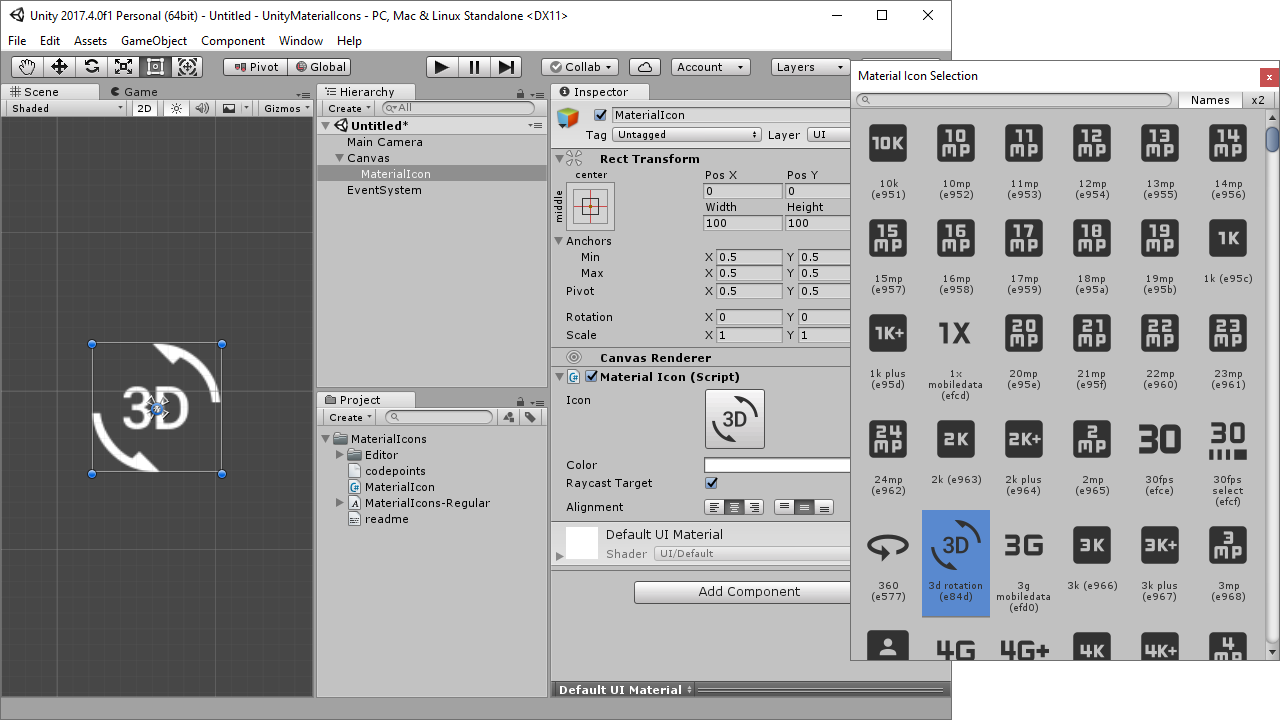
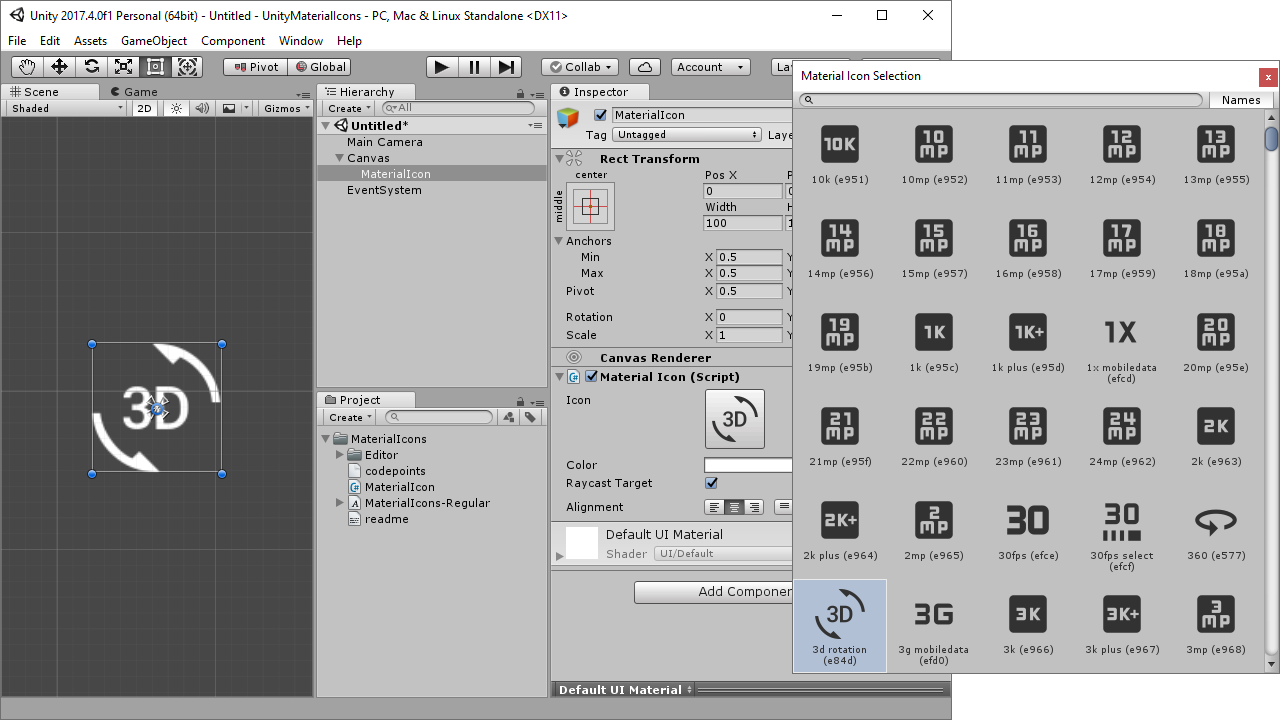
Greatly improved the selection window.

Changed region(s): [[0.5938, 0.0611, 1.0, 0.9472]]

diff --git a/src/UnityMaterialIcons/Assets/MaterialIcons/Editor/MaterialIconSelectionWindow.cs b/src/UnityMaterialIcons/Assets/MaterialIcons/Editor/MaterialIconSelectionWindow.cs
@@ -13,21 +13,23 @@ public class MaterialIconSelectionWindow : EditorWindow
 {
 	private static readonly Color darkColor = new Color(0.196f, 0.196f, 0.196f);
 	private static readonly Color lightColor = new Color(0.804f, 0.804f, 0.804f);
-	
+
 	private int iconSize = 60;
-	private int iconZoom = 1;
+	private int labelHeight = 24;
+	private int spacing = 10;
 	private bool showNames = true;
 	private Vector2 scrollPos = Vector2.zero;
 	private string filterText = string.Empty;
 	private bool filterGotFocus = false;
 
 	private string selected;
-	private int selectedIndex;
+	private string selectedName;
 	private bool selectionKeep;
-	private System.Action<string> OnSelectionChanged;
+	private System.Action<string> onSelectionChanged;
 
 	private Font MaterialIconsRegular;
-	private CodepointData[] CodepointsCollection;
+	private CodepointData[] codepointsCollection;
+	private CodepointData[] filteredCollection;
 
 	private GUIStyle toolbarSeachTextFieldStyle;
 	private GUIStyle toolbarSeachCancelButtonStyle;
@@ -39,17 +41,16 @@ public class MaterialIconSelectionWindow : EditorWindow
 
 	public void LoadDependencies(Font MaterialIconsRegular)
 	{
-		showNames = EditorPrefs.GetBool("MaterialIconSelectionWindow.showNames", true);
-		iconZoom = EditorPrefs.GetInt("MaterialIconSelectionWindow.iconZoom", 1);
+		showNames = EditorPrefs.GetBool(typeof(MaterialIconSelectionWindow) + ".showNames", true);
 
 		if(MaterialIconsRegular == null)
 			return;
-		
+
 		this.MaterialIconsRegular = MaterialIconsRegular;
 
 		string fontPath = AssetDatabase.GetAssetPath(MaterialIconsRegular);
 		string codepointsPath = Path.GetDirectoryName(fontPath) + "/codepoints";
-	
+
 		List<CodepointData> tempList = new List<CodepointData>();
 
 		foreach(string codepoint in File.ReadAllLines(codepointsPath))
@@ -58,22 +59,26 @@ public class MaterialIconSelectionWindow : EditorWindow
 			tempList.Add(new CodepointData(data[0], data[1]));
 		}
 
-		CodepointsCollection = tempList.ToArray();
-		selectedIndex = System.Array.FindIndex(CodepointsCollection, (data) => data.codeGUIContent.text == selected);
+		codepointsCollection = tempList.ToArray();
+		filteredCollection = codepointsCollection;
+
+		var temp = filteredCollection.FirstOrDefault(data => data.codeGUIContent.text == selected);
+		if(temp != null)
+			selectedName = temp.name;
 	}
 
 	public static void Init(Font MaterialIconsRegular, string preSelect, System.Action<string> callback)
 	{
 		MaterialIconSelectionWindow window = EditorWindow.GetWindow<MaterialIconSelectionWindow>(true);
 		window.selected = preSelect;
-		window.OnSelectionChanged = callback;
+		window.onSelectionChanged = callback;
 		window.LoadDependencies(MaterialIconsRegular);
 	}
 
 	private void OnEnable()
 	{
 		base.titleContent = new GUIContent("Material Icon Selection");
-		base.minSize = new Vector2(430f, 570f);
+		base.minSize = new Vector2((iconSize + labelHeight + spacing) * 5f + GUI.skin.verticalScrollbar.fixedWidth + 1f, (iconSize + labelHeight + spacing) * 6f + EditorStyles.toolbar.fixedHeight);
 		selectionKeep = true;
 	}
 
@@ -85,13 +90,12 @@ public class MaterialIconSelectionWindow : EditorWindow
 			toolbarSeachCancelButtonStyle = new GUIStyle("ToolbarSeachCancelButton");
 			toolbarSeachCancelButtonEmptyStyle = new GUIStyle("ToolbarSeachCancelButtonEmpty");
 			toolbarLabelStyle = new GUIStyle(EditorStyles.label) { alignment = TextAnchor.MiddleCenter };
-			iconImageStyle = new GUIStyle() { font = MaterialIconsRegular, alignment = TextAnchor.MiddleCenter };
+			iconSelectionStyle = new GUIStyle("selectionrect");
+			iconImageStyle = new GUIStyle() { font = MaterialIconsRegular, fontSize = iconSize - spacing, alignment = TextAnchor.MiddleCenter };
 			iconLabelStyle = new GUIStyle(EditorStyles.miniLabel) { alignment = TextAnchor.UpperCenter, wordWrap = true };
-			iconSelectionStyle = new GUIStyle("RL Element");
+			iconImageStyle.padding = iconLabelStyle.padding = new RectOffset();
 			iconImageStyle.normal.textColor = iconLabelStyle.normal.textColor = EditorGUIUtility.isProSkin ? lightColor : darkColor;
 		}
-
-		OnHeaderGUI();
 
 		if(MaterialIconsRegular == null)
 		{
@@ -99,26 +103,34 @@ public class MaterialIconSelectionWindow : EditorWindow
 			return;
 		}
 
-		if((CodepointsCollection == null) || (CodepointsCollection.Length == 0))
+		if((codepointsCollection == null) || (codepointsCollection.Length == 0))
 		{
 			EditorGUILayout.HelpBox("Could not find \"codepoints\" font data.", MessageType.Error);
 			return;
 		}
 
+		OnHeaderGUI();
 		OnBodyGUI();
 	}
 
 	private void OnHeaderGUI()
 	{
-		EditorGUILayout.BeginHorizontal(EditorStyles.toolbar, GUILayout.ExpandWidth(true));
+		Rect groupRect = new Rect(0f, 0f, base.position.width, EditorStyles.toolbar.fixedHeight);
+		GUI.BeginGroup(groupRect);
 
-		GUI.SetNextControlName("MaterialIconSelectionWindow.filterText");
-		filterText = EditorGUILayout.TextField(filterText, toolbarSeachTextFieldStyle);
+		if(Event.current.type == EventType.Repaint)
+		{
+			EditorStyles.toolbar.Draw(groupRect, false, false, false, false);
+		}
 
-		Rect clearRect = GUILayoutUtility.GetRect(20f, 14f, GUILayout.ExpandWidth(false), GUILayout.ExpandHeight(false));
-		clearRect.y += 1.5f;
+		Rect filterRect = new Rect(6f, 2f, groupRect.width - 6f - 20f - 64f - 6f, groupRect.height - 2f);
+		Rect clearRect = new Rect(filterRect.x + filterRect.width, filterRect.y, 20f, filterRect.height);
 
-		GUI.Label(clearRect, GUIContent.none, toolbarSeachCancelButtonEmptyStyle);
+		EditorGUI.BeginChangeCheck();
+
+		GUI.SetNextControlName(typeof(MaterialIconSelectionWindow) + ".filterText");
+		filterText = EditorGUI.TextField(filterRect, filterText, toolbarSeachTextFieldStyle);
+
 		if(GUI.Button(clearRect, GUIContent.none, string.IsNullOrEmpty(filterText) ? toolbarSeachCancelButtonEmptyStyle : toolbarSeachCancelButtonStyle))
 		{
 			filterText = string.Empty;
@@ -127,108 +139,169 @@ public class MaterialIconSelectionWindow : EditorWindow
 
 		if(!filterGotFocus)
 		{
-			EditorGUI.FocusTextInControl("MaterialIconSelectionWindow.filterText");
+			EditorGUI.FocusTextInControl(typeof(MaterialIconSelectionWindow) + ".filterText");
 			filterGotFocus = true;
 		}
 
-		Rect nameRect = GUILayoutUtility.GetRect(64f, 14f, GUILayout.ExpandWidth(false), GUILayout.ExpandHeight(false));
+		if(EditorGUI.EndChangeCheck())
+		{
+			filteredCollection = codepointsCollection.Where(data => string.IsNullOrEmpty(filterText) || data.nameGUIContent.text.IndexOf(filterText, System.StringComparison.OrdinalIgnoreCase) >= 0).ToArray();
+			selectionKeep = true;
+		}
+
+		Rect nameRect = new Rect(clearRect.x + clearRect.width, groupRect.y, 64f, groupRect.height);
 		EditorGUI.BeginChangeCheck();
 		showNames = EditorGUI.Toggle(nameRect, showNames, EditorStyles.toolbarButton);
 		if(EditorGUI.EndChangeCheck())
 		{
-			EditorPrefs.SetBool("MaterialIconSelectionWindow.showNames", showNames);
+			GUI.FocusControl(null);
+			EditorPrefs.SetBool(typeof(MaterialIconSelectionWindow) + ".showNames", showNames);
 		}
-		nameRect.y += 1.5f;
 		EditorGUI.LabelField(nameRect, "Names", toolbarLabelStyle);
 
-		Rect zoomRect = GUILayoutUtility.GetRect(32f, 14f, GUILayout.ExpandWidth(false), GUILayout.ExpandHeight(false));
-		EditorGUI.BeginChangeCheck();
-		EditorGUI.Toggle(zoomRect, iconZoom == 2, EditorStyles.toolbarButton);
-		if(EditorGUI.EndChangeCheck())
-		{
-			iconZoom = (iconZoom == 1) ? 2 : 1;
-			EditorPrefs.SetInt("MaterialIconSelectionWindow.iconZoom", iconZoom);
-		}
-		zoomRect.y += 1.5f;
-		EditorGUI.LabelField(zoomRect, "x2", toolbarLabelStyle);
-
-		iconImageStyle.fontSize = Mathf.FloorToInt((iconSize - 10) * iconZoom);
-
-		EditorGUILayout.EndHorizontal();
+		GUI.EndGroup();
 	}
 
 	private void OnBodyGUI()
 	{
-		scrollPos = EditorGUILayout.BeginScrollView(scrollPos);
-
-		EditorGUILayout.BeginHorizontal(GUILayout.ExpandWidth(false));
-		GUILayout.Space(showNames ? 4f : 0f);
-
-		int k = 0;
-		int c = Mathf.FloorToInt((base.position.width - 16f) / ((iconSize * iconZoom) + 8f));
-		for(int i = 0; i < CodepointsCollection.Length; i++)
+		Rect iconRect = new Rect(0f, 0f, iconSize + labelHeight, iconSize);
+		Rect labelRect = new Rect(0f, 0f, iconRect.width, labelHeight);
+		if(!showNames)
 		{
-			var data = CodepointsCollection[i];
+			iconRect.width -= labelHeight;
+			labelRect.height = 0f;
+		}
+		Rect buttonRect = new Rect(0f, 0f, iconRect.width + spacing, iconRect.height + labelRect.height + spacing);
 
-			if(!string.IsNullOrEmpty(filterText) && filterText.Split(' ').Any(filter => data.nameGUIContent.text.IndexOf(filter, System.StringComparison.OrdinalIgnoreCase) < 0))
-				continue;
+		Rect groupRect = new Rect(0f, EditorStyles.toolbar.fixedHeight, base.position.width, base.position.height - EditorStyles.toolbar.fixedHeight);
+		GUI.BeginGroup(groupRect);
 
-			if(k++ % c == 0)
+		Rect scrollRect = new Rect(0f, 0f, groupRect.width, groupRect.height);
+		int columns = Mathf.FloorToInt((scrollRect.width - GUI.skin.verticalScrollbar.fixedWidth) / (iconRect.width + spacing));
+		Rect viewRect = new Rect(0f, 0f, scrollRect.width - GUI.skin.verticalScrollbar.fixedWidth, Mathf.Ceil(filteredCollection.Length / (float) columns) * (iconRect.height + labelRect.height + spacing));
+
+		scrollPos = GUI.BeginScrollView(scrollRect, scrollPos, viewRect);
+
+		for(int i = 0; i < filteredCollection.Length; i += columns)
+		{
+			for(int j = 0; j < columns; j++)
 			{
-				GUILayout.FlexibleSpace();
-				EditorGUILayout.EndHorizontal();
-				EditorGUILayout.BeginHorizontal(GUILayout.ExpandWidth(false));
-				GUILayout.Space(showNames ? 4f : 0f);
-			}
+				if((i + j) >= filteredCollection.Length)
+					break;
 
-			GUILayout.Space(showNames ? 4f : 8f);
-			EditorGUILayout.BeginVertical();
-			GUILayout.Space(4f);
+				var data = filteredCollection[i + j];
 
-			Rect irect = GUILayoutUtility.GetRect(iconSize * iconZoom, iconSize * iconZoom, GUILayout.ExpandWidth(false), GUILayout.ExpandHeight(false));
-			Rect lrect = Rect.zero;
-			if(showNames)
-			{
-				lrect = GUILayoutUtility.GetRect(iconSize * iconZoom - 4f, iconLabelStyle.CalcHeight(data.nameGUIContent, iconSize * iconZoom - 4f), iconLabelStyle, GUILayout.ExpandWidth(false), GUILayout.ExpandHeight(false));
-				lrect.x = irect.x;
-				lrect.width = irect.width;
-			}
-			Rect brect = new Rect(irect) { height = irect.height + lrect.height };
-			Rect hrect = new Rect(brect.x - 5, brect.y - 5, brect.width + 10, brect.height + 10);
+				iconRect.x = (j * (iconRect.width + spacing)) + (spacing / 2f);
+				iconRect.y = ((i / (float) columns) * (iconRect.height + labelRect.height + spacing)) + (spacing / 2f);
 
-			if(Event.current.type == EventType.Repaint)
-			{
-				if(i == selectedIndex)
+				labelRect.x = iconRect.x;
+				labelRect.y = iconRect.y + iconRect.height;
+
+				buttonRect.x = iconRect.x - (spacing / 2f);
+				buttonRect.y = iconRect.y - (spacing / 2f);
+
+				if(data.name == selectedName)
 				{
-					iconSelectionStyle.Draw(hrect, false, true, true, true);
+					if(Event.current.type == EventType.Repaint)
+					{
+						iconSelectionStyle.Draw(buttonRect, false, true, true, true);
+					}
+
 					if(selectionKeep)
 					{
-						scrollPos.y = Mathf.Clamp(scrollPos.y, irect.y + irect.height + lrect.height - base.position.height + EditorStyles.toolbar.fixedHeight, irect.y);
+						if(buttonRect.y + buttonRect.height > scrollPos.y + scrollRect.height)
+							scrollPos.y = buttonRect.y + buttonRect.height - scrollRect.height;
+						else if(buttonRect.y < scrollPos.y)
+							scrollPos.y = buttonRect.y;
+
 						selectionKeep = false;
 						base.Repaint();
 					}
 				}
+
+				GUI.Label(iconRect, data.codeGUIContent, iconImageStyle);
+				if(showNames)
+					GUI.Label(labelRect, data.nameGUIContent, iconLabelStyle);
+
+				if(GUI.Button(buttonRect, GUIContent.none, GUIStyle.none))
+				{
+					GUI.FocusControl(null);
+					selected = data.codeGUIContent.text;
+					selectedName = data.name;
+					onSelectionChanged.Invoke(selected);
+				}
 			}
-
-			EditorGUILayout.EndVertical();
-
-			GUI.Label(irect, data.codeGUIContent, iconImageStyle);
-			if(showNames)
-				GUI.Label(lrect, data.nameGUIContent, iconLabelStyle);
-
-			if(GUI.Button(brect, GUIContent.none, GUIStyle.none))
-			{
-				selected = data.codeGUIContent.text;
-				selectedIndex = i;
-				OnSelectionChanged.Invoke(selected);
-			}
-
 		}
 
-		GUILayout.FlexibleSpace();
-		EditorGUILayout.EndHorizontal();
+		GUI.EndScrollView();
+		GUI.EndGroup();
 
-		GUILayout.EndScrollView();
+		if(Event.current.type == EventType.KeyDown)
+		{
+			if(Event.current.keyCode == KeyCode.LeftArrow)
+			{
+				SelectRelative(-1);
+				Event.current.Use();
+			}
+
+			if(Event.current.keyCode == KeyCode.RightArrow)
+			{
+				SelectRelative(+1);
+				Event.current.Use();
+			}
+
+			if(Event.current.keyCode == KeyCode.UpArrow)
+			{
+				SelectRelative(-columns);
+				Event.current.Use();
+			}
+
+			if(Event.current.keyCode == KeyCode.DownArrow)
+			{
+				SelectRelative(+columns);
+				Event.current.Use();
+			}
+
+			if(Event.current.keyCode == KeyCode.PageUp)
+			{
+				SelectRelative(-(columns * 6));
+				Event.current.Use();
+			}
+
+			if(Event.current.keyCode == KeyCode.PageDown)
+			{
+				SelectRelative(+(columns * 6));
+				Event.current.Use();
+			}
+
+			if(Event.current.keyCode == KeyCode.Home)
+			{
+				SelectAbsolute(0);
+				Event.current.Use();
+			}
+
+			if(Event.current.keyCode == KeyCode.End)
+			{
+				SelectAbsolute(filteredCollection.Length - 1);
+				Event.current.Use();
+			}
+		}
+	}
+
+	private void SelectRelative(int delta)
+	{
+		SelectAbsolute(System.Array.FindIndex(filteredCollection, (data) => data.name == selectedName) + delta);
+	}
+
+	private void SelectAbsolute(int index)
+	{
+		index = Mathf.Clamp(index, 0, filteredCollection.Length - 1);
+
+		selected = filteredCollection[index].codeGUIContent.text;
+		selectedName = filteredCollection[index].name;
+		onSelectionChanged.Invoke(selected);
+		selectionKeep = true;
+		base.Repaint();
 	}
 
 	[System.Serializable]
